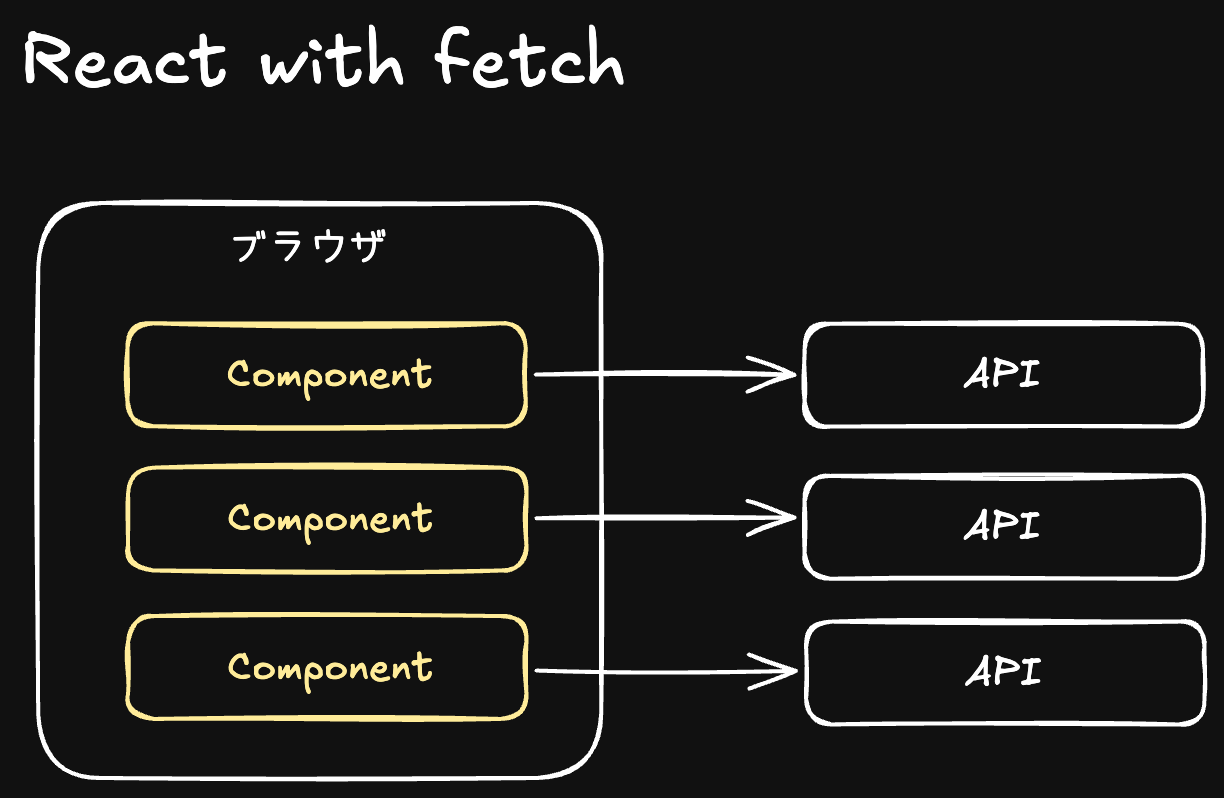
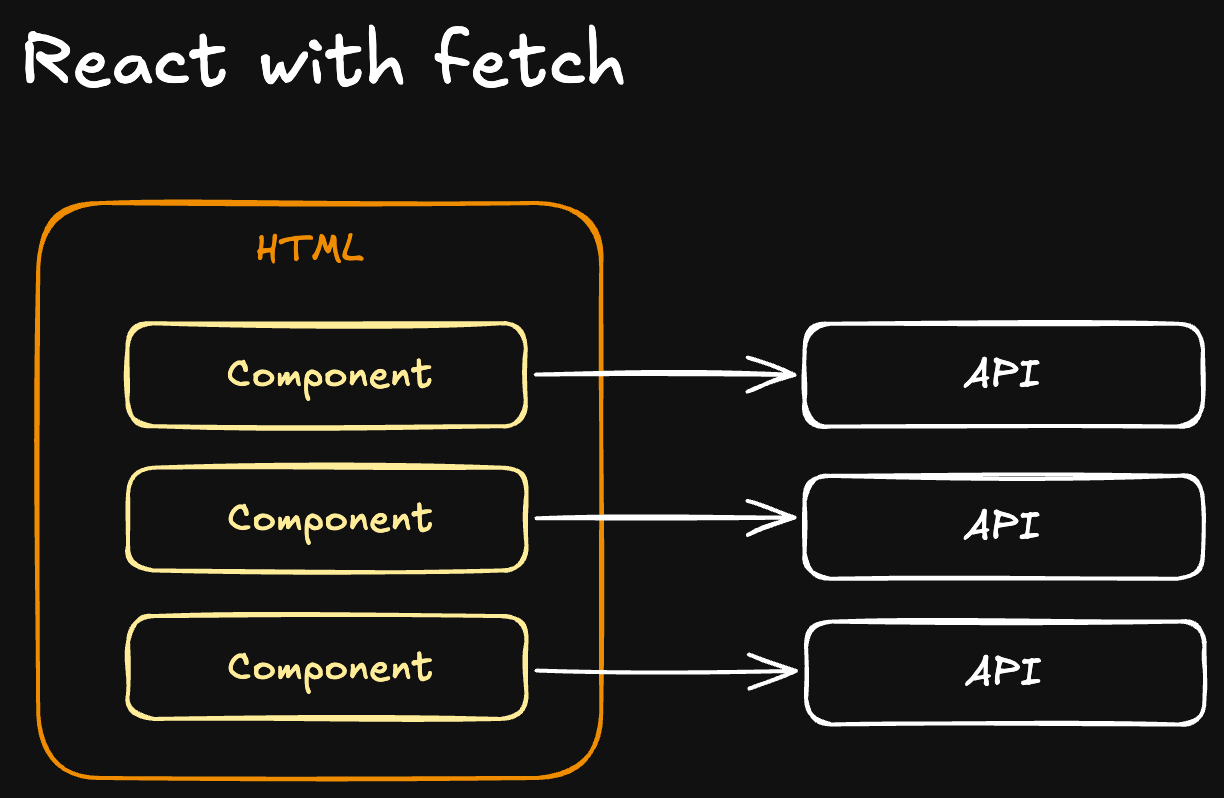
図の修正

diff --git a/slides.md b/slides.md
@@ -260,8 +260,6 @@ layout: section
 
 <span v-mark="{ at: 1, color: 'red', type: 'underline'}" class="font-bold">コンポーネント指向なSSRを実現するためのアーキテクチャであることがわかる</span>
 
-[//]: # "Excalidraw: https://excalidraw.com/#json=EQL1J-CGv4UDz71bCSn20,r_Zmn6bC4EM6cehZbwPc2Q"
-
 ---
 
 <div class="w-full h-full flex justify-center items-center">
@@ -277,13 +275,13 @@ layout: section
 ---
 
 <div class="w-full h-full flex justify-center items-center">
-<img src="/architecture-ssr.png" alt="Next.js Pages Router" class="h-300px">
+<img src="/architecture-ssr.png" alt="Next.js Pages Router" class="h-400px">
 </div>
 
 ---
 
 <div class="w-full h-full flex justify-center items-center">
-<img src="/architecture-rsc.png" alt="Next.js App Router(RSC)" class="h-300px">
+<img src="/architecture-rsc.png" alt="Next.js App Router(RSC)" class="h-400px">
 </div>
 
 ---

diff --git a/README.md b/README.md
@@ -5,6 +5,10 @@
 - [slides.md](slides.md)
 - [github pages](https://akifumisato.github.io/slide-of-tng-2024-rsc/1)
 
+### Excalidraw
+
+https://excalidraw.com/#json=-D9Yw-oMIzviGrT0yl_rO,RXS71ZdAOR1BGmAPf3wJ2A
+
 ## Event
 
 TBW
